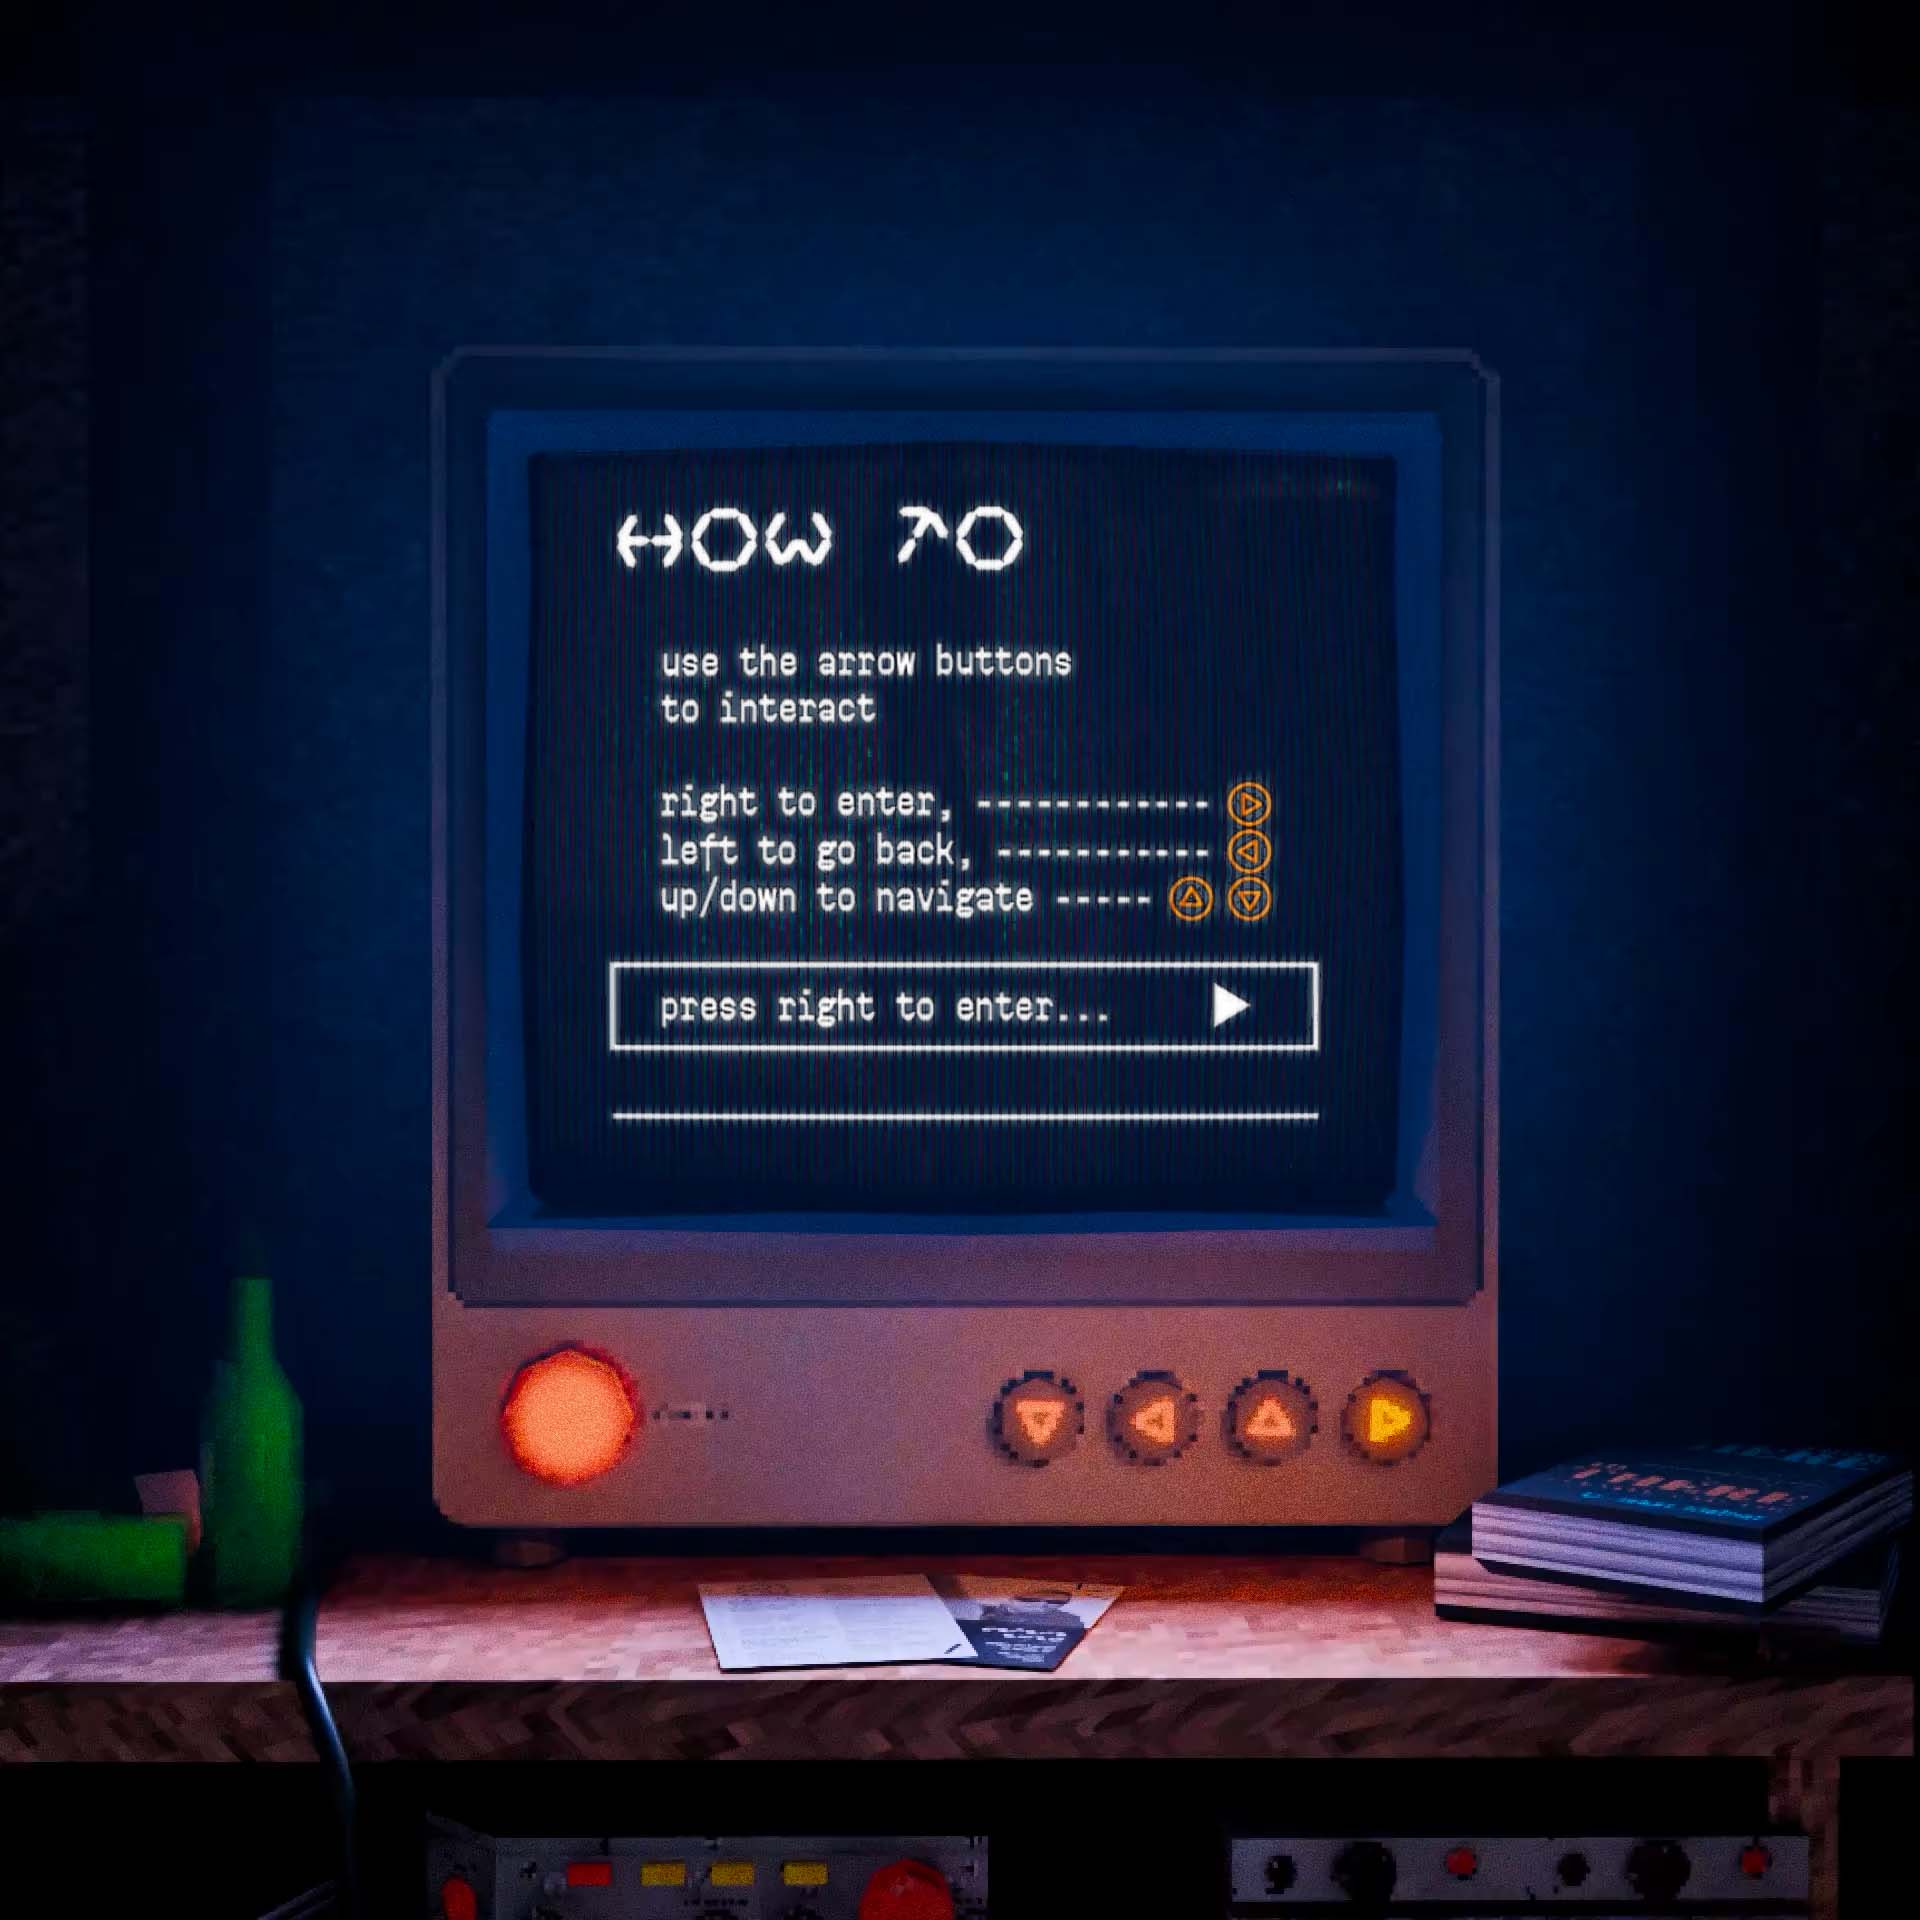
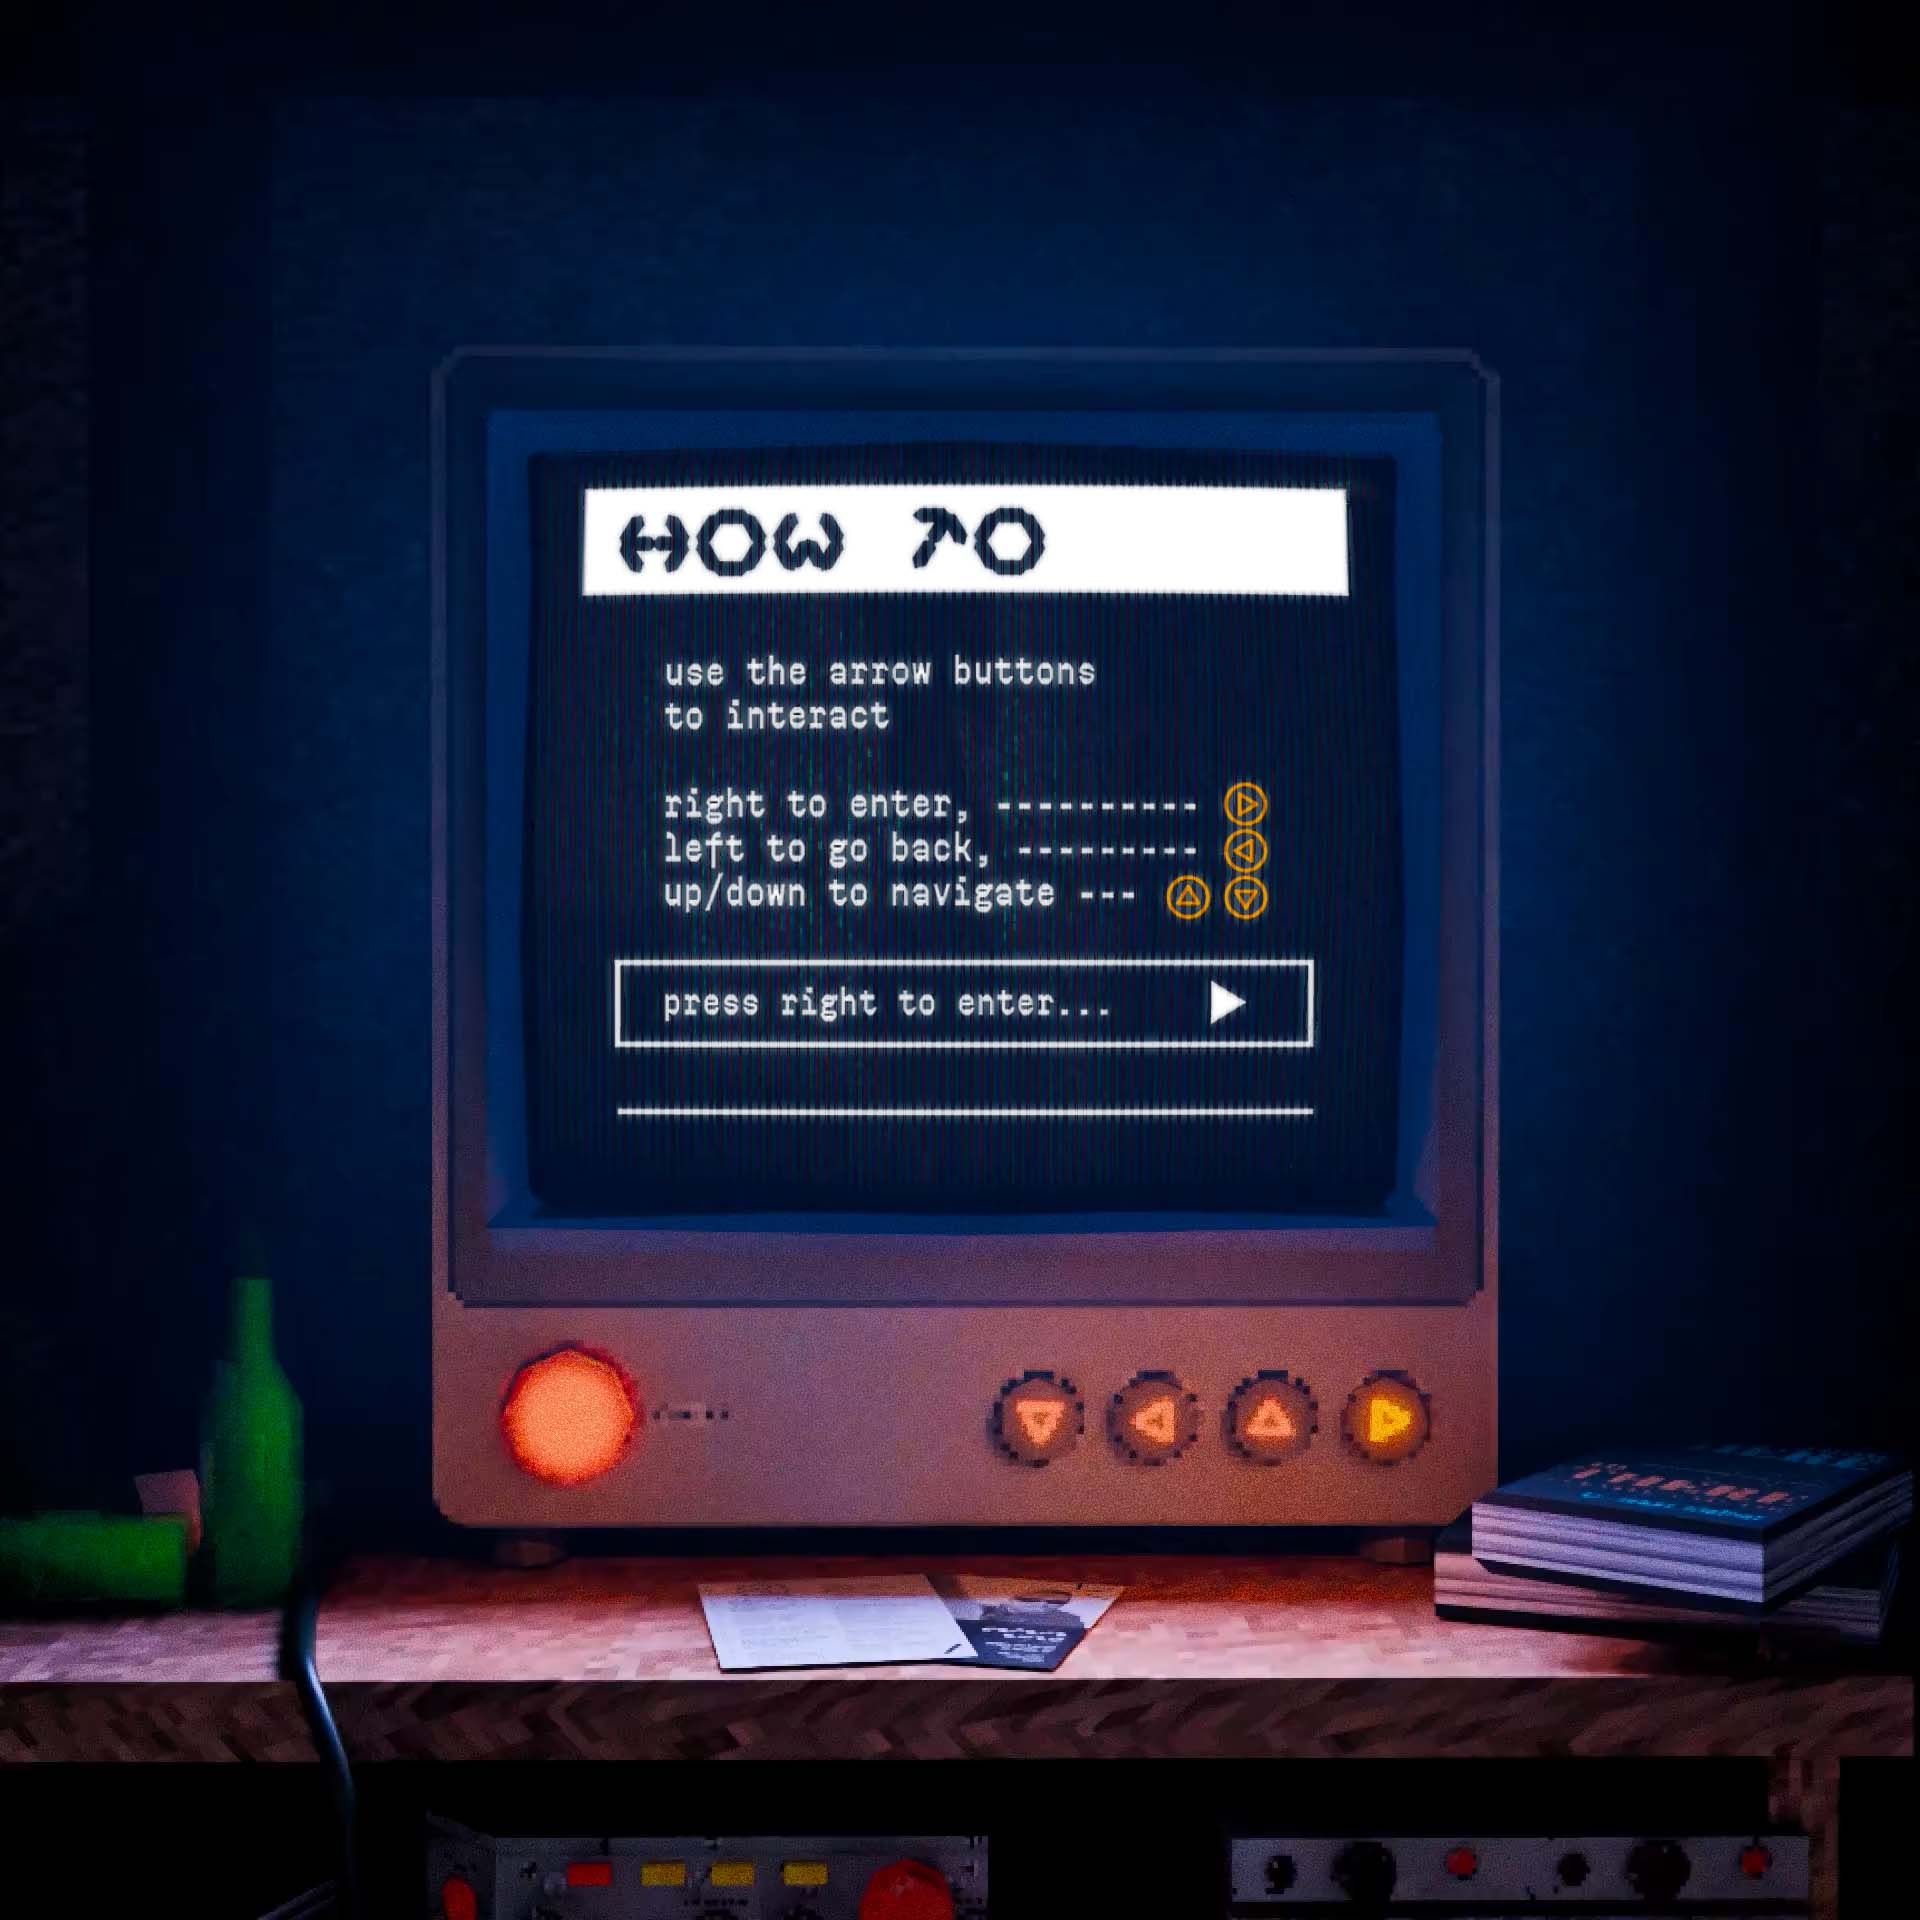
ui update

Changed region(s): [[0.2812, 0.25, 0.7188, 0.5938]]

diff --git a/js/sketch.js b/js/sketch.js
@@ -68,7 +68,7 @@ let playingVideo5 = false;
 let isPlaying = false;
 
 // UI Navigation
-const availableImages = ['p0', 'p1', 'p2', 'p3', 'p11', 'p111', 'p1111'];
+const availableImages = ['p0', 'p1', 'p2', 'p3', 'p11', 'p111', 'p1111', 'p12'];
 let currentUIState = 'p0';
 let showingUI = false;
 
@@ -1401,9 +1401,10 @@ const navigationMap = {
 	'p1': { left: 'p0', down: 'p2', right: 'p11' },
 	'p2': { left: 'p0', up: 'p1', down: 'p3', right: 'VIDEO_3' },
 	'p3': { left: 'p0', up: 'p2', right: 'VIDEO_2' },
-	'p11': { left: 'p1', right: 'p111', link: 'https://github.com/godjdko/portfolio26' },
+	'p11': { left: 'p1', down: 'p12', right: 'p111', link: 'https://github.com/godjdko/portfolio26' },
 	'p111': { left: 'p11', right: 'p1111',  link: 'https://github.com/godjdko/portfolio26' },
-	'p1111': { left: 'p111', link: 'https://github.com/godjdko/portfolio26' }
+	'p1111': { left: 'p111', link: 'https://github.com/godjdko/portfolio26' },
+	'p12': { left: 'p0', up: 'p11', down: 'p13', right: 'p121' }
 };
 
 function navigateLeft() {
